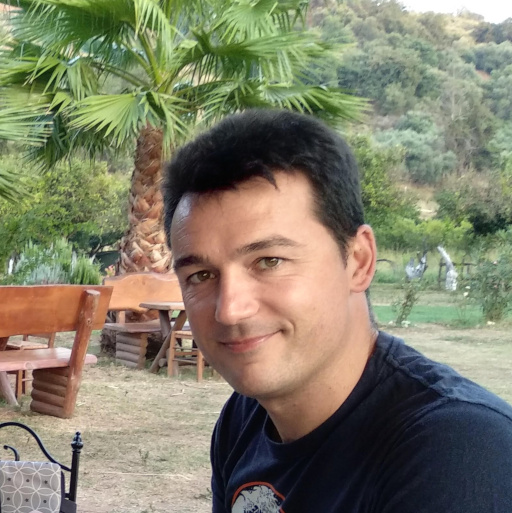
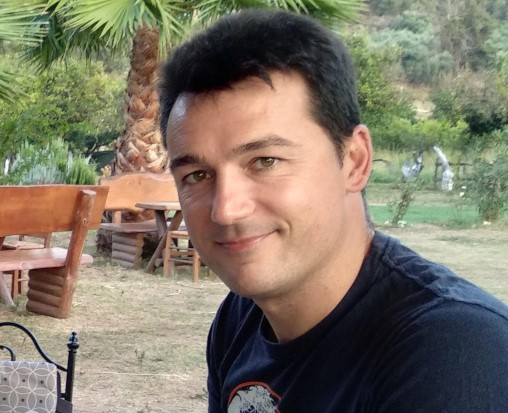
Improving speakers section

diff --git a/2020/speakers.html b/2020/speakers.html
@@ -61,7 +61,7 @@ bodyClass: home page-template-default page page-id-7 eventstation-class  eventst
 
                                     <div class="item col-md-4" style="height:550px;">
                                         <div class="speaker-item-header"
-                                             style="background-image:url('{{ base }}/{{ speaker.image }}');">
+                                             style="background-image:url('{{ base }}/{{ speaker.image }}'); background-size: auto;">
                                             <div class="speaker-item-topic-wrapper">
                                                 <a href="{{ base }}/infoTalk.html?id={{ talkId }}">
                                                     <h4 class="speaker-item-topic-title">
